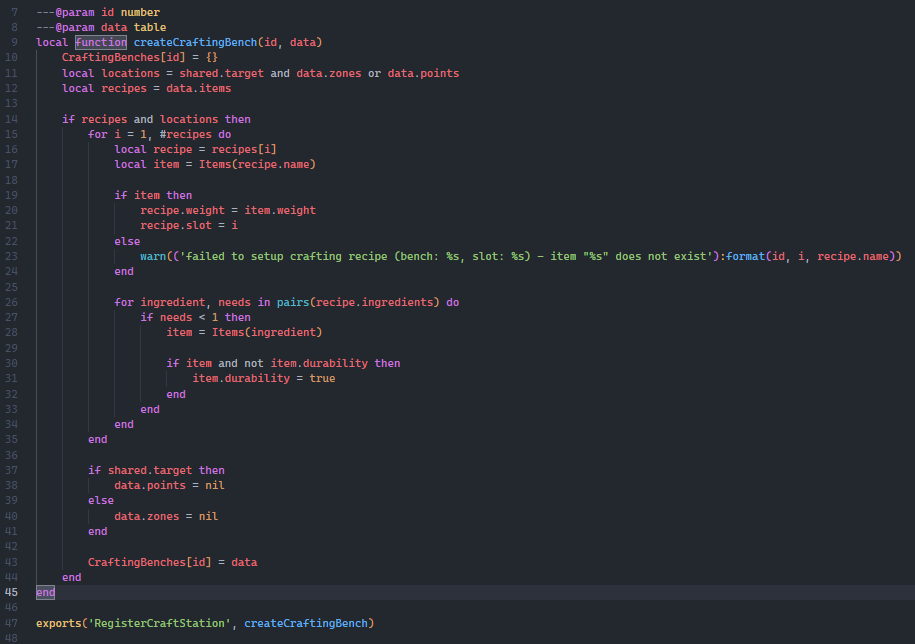
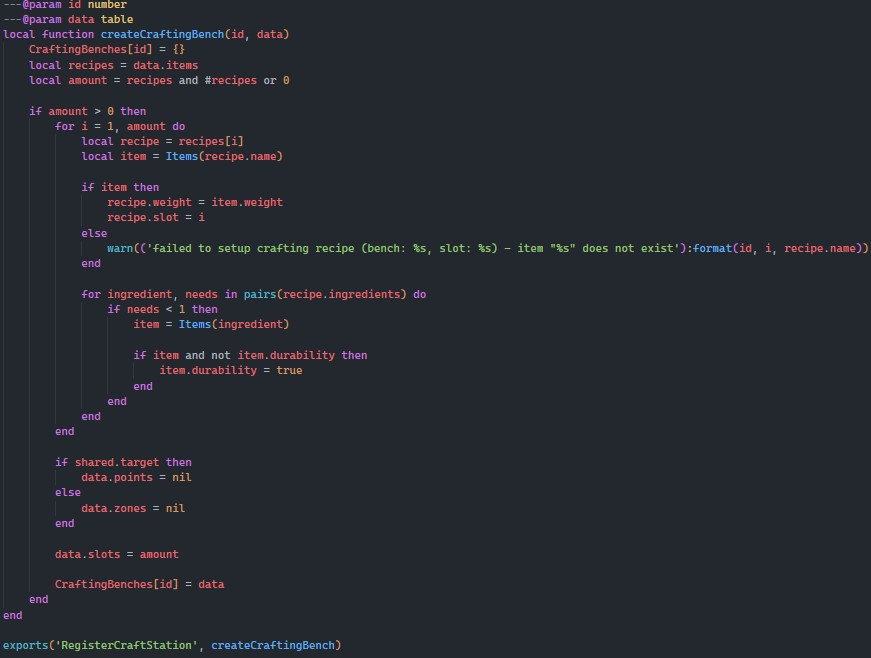
GITBOOK-21: Renewed-Businesses: Ox_Inv 2.30.7 Installation

diff --git a/paid-scripts/renewed-businesses/installation/ox-inventory-changes.md b/paid-scripts/renewed-businesses/installation/ox-inventory-changes.md
@@ -140,9 +140,9 @@ Now replace that function with this
 local function createCraftingBench(id, data)
 	CraftingBenches[id] = {}
 	local recipes = data.items
-	local amount = #recipes
+	local amount = recipes and #recipes or 0
 
-	if recipes and amount > 0 then
+	if amount > 0 then
 		for i = 1, amount do
 			local recipe = recipes[i]
 			local item = Items(recipe.name)
@@ -176,15 +176,15 @@ local function createCraftingBench(id, data)
 		CraftingBenches[id] = data
 	end
 end
+
 exports('RegisterCraftStation', createCraftingBench)
 ```
 
-<figure><img src="../../../.gitbook/assets/image.png" alt=""><figcaption><p>This is what a the function will look like when successfully installed</p></figcaption></figure>
+<figure><img src="../../../.gitbook/assets/image (1).png" alt=""><figcaption><p>This is what the function should look like when successfully installed.</p></figcaption></figure>
 
 ### Step 4
 
-Within the same file (modules/crafting/server.lua) find the following event\
-
+Stay inside ox\_inventory/modules/crafting/server.lua and find this event
 
 ```lua
 lib.callback.register('ox_inventory:openCraftingBench', function(source, id, index)
@@ -217,7 +217,7 @@ lib.callback.register('ox_inventory:openCraftingBench', function(source, id, ind
 end)
 ```
 
-and replace it with the following
+Then replace the event with the following code
 
 ```lua
 lib.callback.register('ox_inventory:openCraftingBench', function(source, id, index)
@@ -258,10 +258,10 @@ In the same file (modules/crafting/server.lua) find the following event
 local success = lib.callback.await('ox_inventory:startCrafting', source, id, recipeId)
 ```
 
-replace this with the following
+Replace that event / code with this
 
 ```lua
 local success = lib.callback.await('ox_inventory:startCrafting', source, recipe)
 ```
 
-and that is it, you have now completed the inventory changes!
+Once completed you have now successfully installed Renewed-Businesses!
